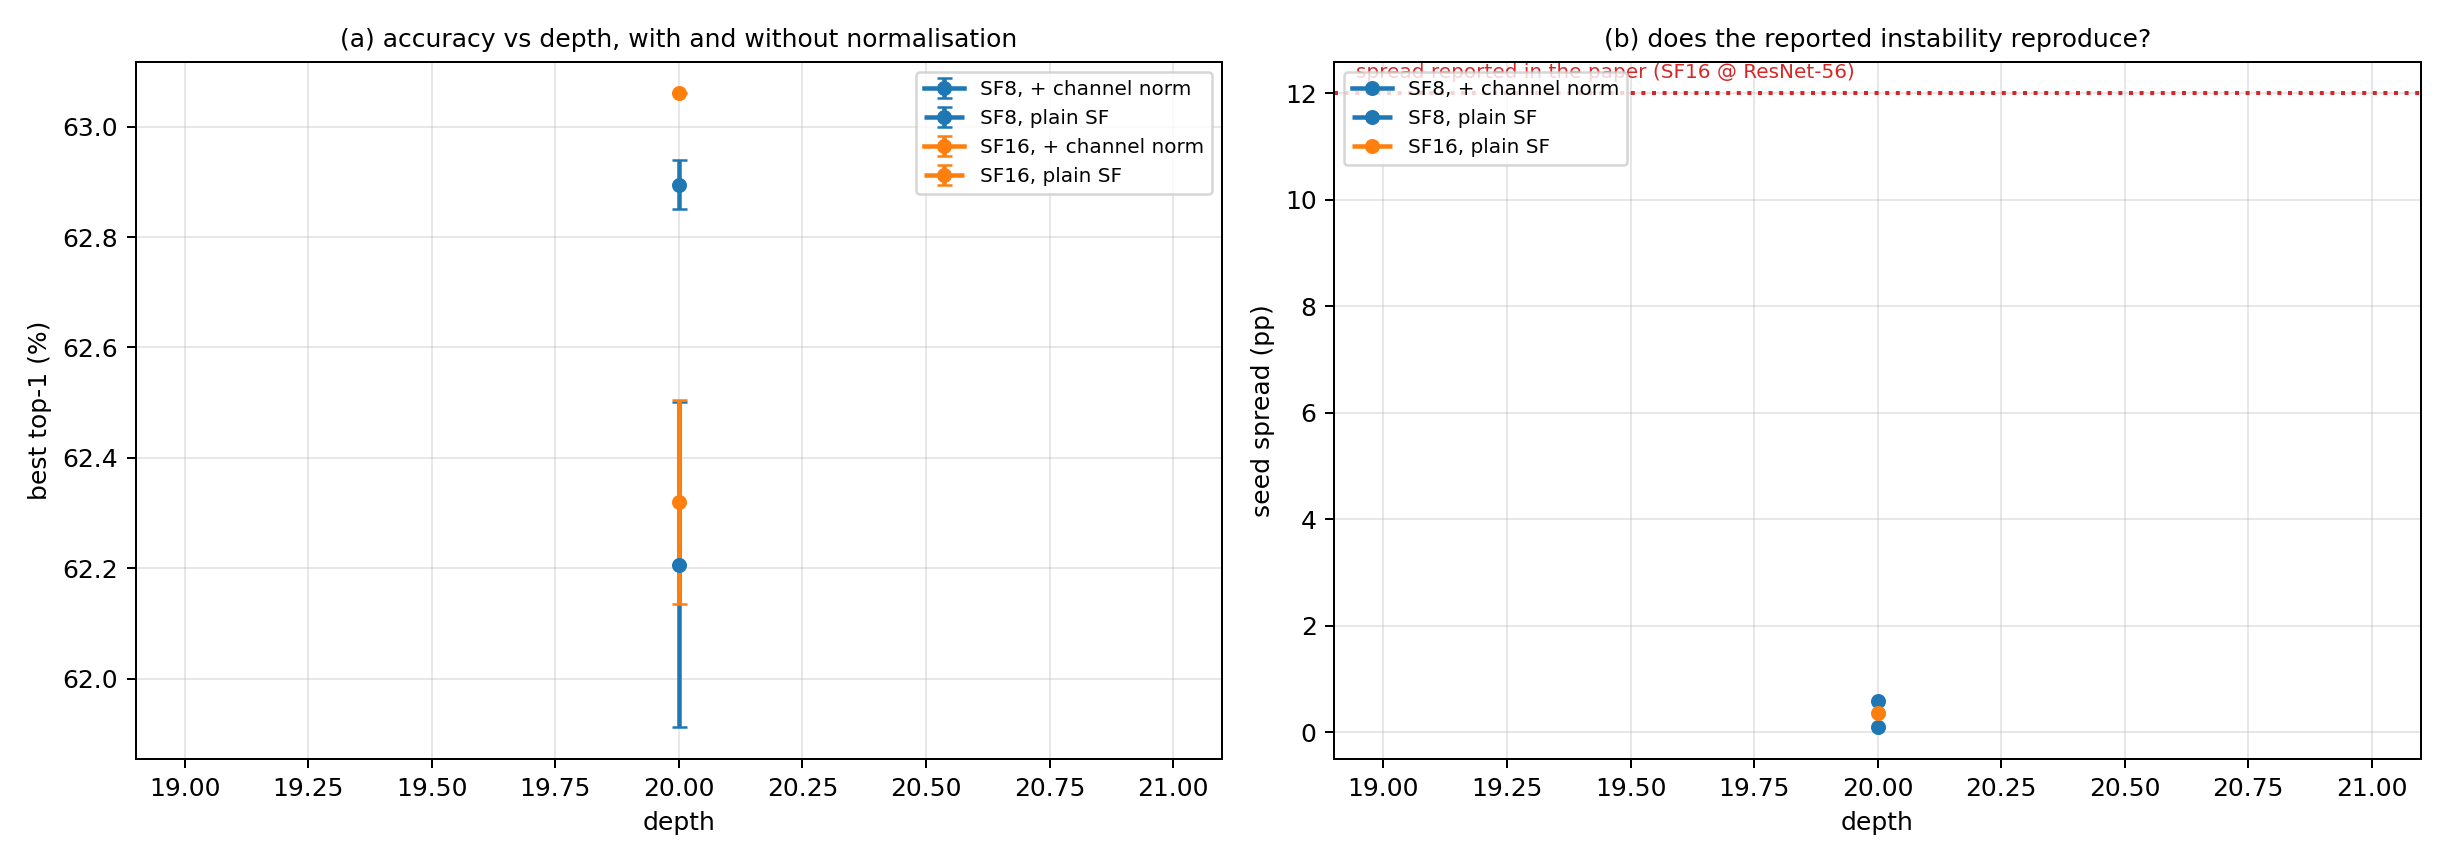
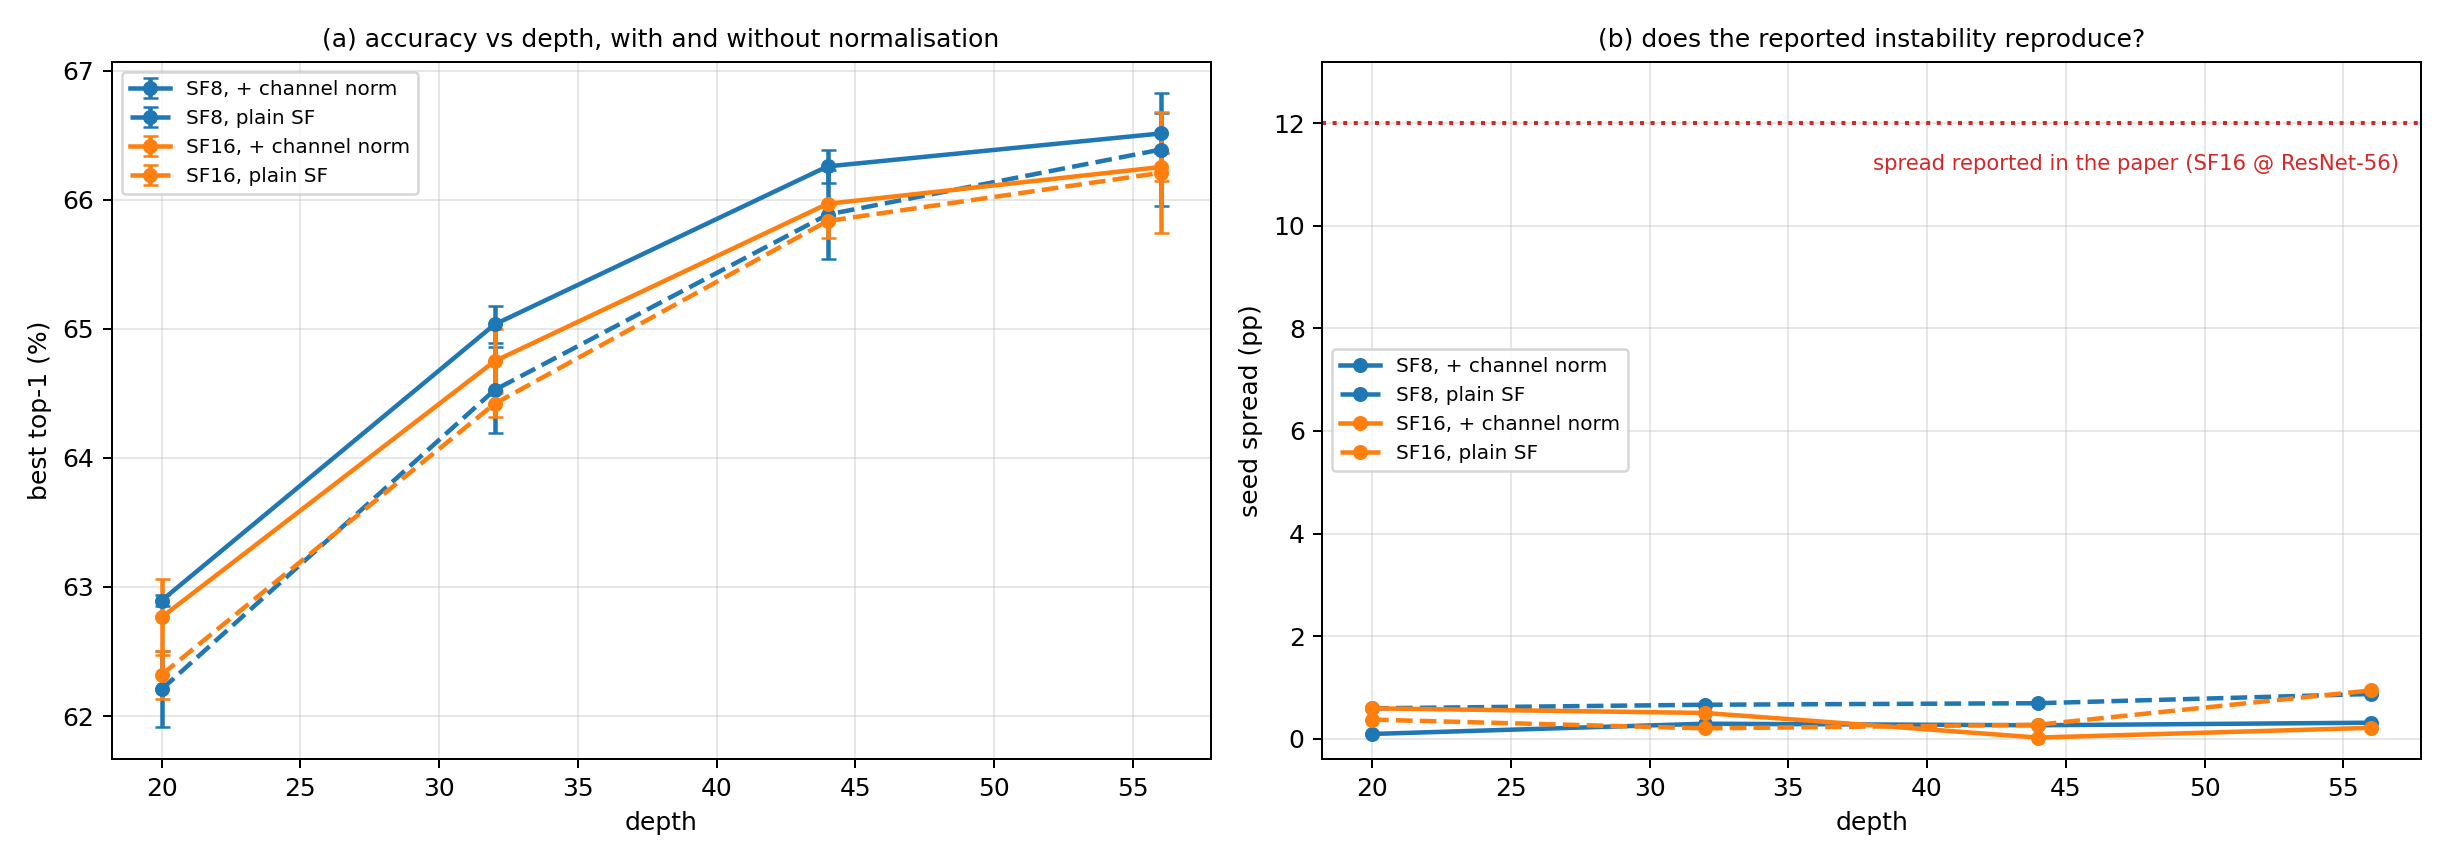
exp4 and exp7 complete the study: depth, and a number that does not reproduce
exp4 varies the axis tier C never touched. Under channel normalisation the
shape of the precision curve is identical at every depth: a step from SF2 to
SF3, then flat. No knee moves. What depth changes is the size of the penalty,
which shrinks as the network deepens:

  SF2 vs SF16   4.23 -> 3.08 -> 2.09 -> 1.92 pp   over ResNet-20/32/44/56
  SF3 vs SF16   0.74 -> 0.81 -> 0.53 -> 0.13 pp

That is what 5.2 predicts. Depth adds layers without changing any layer's
fan_in, and under normalisation the dead fraction depends only on precision, so
there is no mechanism for depth to move the critical precision. Width and depth
are not interchangeable here: widening raises the precision a network needs,
deepening makes the precision it has go further.

exp7 reruns those depths in the plain condition, three seeds, at the two
precisions the paper's largest instability was reported at. The 12.0-point seed
spread for SF16 on ResNet-56 measures 0.94 points, with the three seeds at
65.60, 66.49 and 66.54. No cell in 72 runs exceeds 1.08. This says the
instability is not a property the format forces; it does not say what produced
the original number, since the recipe here is not the paper's, and the section
says so.

Two corrections while finishing:

The exp4 cell that looked skipped had died at startup. The CIFAR guard checked
isdir(cifar-100-python), but that directory appears the moment the tarball
starts extracting, so runs launched during the 22-minute download opened a
[…]

diff --git a/benchmarks/lab/exp1_act.py b/benchmarks/lab/exp1_act.py
@@ -109,8 +109,19 @@ def load_gpu(train):
     # concurrent streams that is a synchronised GPU-idle window at each config
     # start. Fetch once if missing, then never re-check.
     import os as _os
-    have = _os.path.isdir(_os.path.join(DATA, "cifar-100-python"))
-    ds = torchvision.datasets.CIFAR100(DATA, train=train, download=not have)
+    # The directory appears the moment the tarball starts extracting, so an
+    # isdir() check lets a concurrently starting stream open a half-written
+    # dataset and die with "Dataset not found or corrupted". Look for the
+    # extracted files instead, and if the check still loses the race, wait for
+    # the download that is already in flight rather than starting a second one.
+    base = _os.path.join(DATA, "cifar-100-python")
+    have = all(_os.path.isfile(_os.path.join(base, f))
+               for f in ("train", "test", "meta"))
+    try:
+        ds = torchvision.datasets.CIFAR100(DATA, train=train, download=not have)
+    except RuntimeError:
+        time.sleep(90)
+        ds = torchvision.datasets.CIFAR100(DATA, train=train, download=True)
     x = torch.from_numpy(np.asarray(ds.data)).permute(0, 3, 1, 2).contiguous()
     return x.cuda(), torch.tensor(ds.targets, dtype=torch.long).cuda()
 

diff --git a/benchmarks/make_lab_figures.py b/benchmarks/make_lab_figures.py
@@ -345,11 +345,14 @@ def fig_plain(rows4, rows7, out):
             ax[1].plot(xs, [np.ptp(g[(d, b)]) for d in xs], marker="o", ms=5,
                        lw=1.8, ls=ls, color=C[i % len(C)], label=f"SF{b}, {lab}")
     ax[1].axhline(12.0, color="#d62728", lw=1.6, ls=":")
-    ax[1].text(0.02, 12.3, "spread reported in the paper (SF16 @ ResNet-56)",
-               fontsize=8, color="#d62728", transform=ax[1].get_yaxis_transform())
+    ax[1].text(0.98, 11.4, "spread reported in the paper (SF16 @ ResNet-56)",
+               fontsize=8.5, color="#d62728", ha="right", va="top",
+               transform=ax[1].get_yaxis_transform())
+    ax[1].set_ylim(-0.4, 13.2)
     ax[1].set_xlabel("depth"); ax[1].set_ylabel("seed spread (pp)")
     ax[1].set_title("(b) does the reported instability reproduce?", fontsize=10)
-    ax[1].legend(fontsize=8, loc="upper left"); ax[1].grid(alpha=0.3)
+    ax[1].legend_ = None
+    ax[1].legend(fontsize=8, loc="center left"); ax[1].grid(alpha=0.3)
 
     fig.tight_layout(); p = os.path.join(out, "lab_exp7_plain_depth.png")
     fig.savefig(p, dpi=180); plt.close(fig); return p

diff --git a/SCALING_LAWS.md b/SCALING_LAWS.md
@@ -1,7 +1,8 @@
 # SuperFloat precision scaling study
 
 How far SuperFloat can be pushed, measured rather than argued, across four
-experiment tiers and 509 runs.
+experiment tiers and seven follow-ups. 866 runs are archived under
+`benchmarks/results`, and every figure in this document regenerates from them.
 
 | tier | question | substrate | runs |
 | --- | --- | --- | --- |
@@ -9,6 +10,19 @@ experiment tiers and 509 runs.
 | B | how does PTQ cost scale with size *and* data? | Pythia 70M-12B, incl. intermediate checkpoints | 172 |
 | C | where does a network stop training, and why? | ResNet-20, width x0.25-x4, CIFAR-100 | 258 |
 | D | can the tier C fix be carried to transformers? | GPT 4.7M / 10.6M, three block designs | 44 |
+
+Seven follow-ups then ask where the precision that the tiers did not explain
+actually goes (section 5):
+
+| # | question | substrate | runs |
+| --- | --- | --- | --- |
+| 1 | how do weight and activation precision trade off? | ResNet-20, CIFAR-100 | 42 |
+| 2 | how does PTQ damage move with training tokens? | Pythia 160M-1.4B, 7 checkpoints | 168 |
+| 3 | does the penalty change with tokens-per-parameter? | GPT 4.7M, scale absorption | 20 |
+| 4 | does depth move the critical precision? | ResNet-20 to 56, CIFAR-100 | 48 |
+| 5 | where do dead weights sit, layer by layer? | ResNet-20 at init | 4 |
+| 6 | does usable step size track grid resolution? | ResNet-20, 10 learning rates | 60 |
+| 7 | does the paper's ResNet-56 instability reproduce? | ResNet-20 to 56, plain SF | 24 |
 
 Everything below is weights-only quantization with an FP32/FP16 head, and every
 penalty is measured against a control trained in the **same** condition. That
@@ -37,6 +51,27 @@ that never enters the inference arithmetic, and the floor drops by 2-4 bits.
 Both fixes keep the matmul holding exact SF grid values. The scale lives in the
 normalisation layer, which on Atreides sits outside the systolic array, so
 registers and the MAC array still compute only in SF range.
+
+Four further results from the follow-ups, each measured against a control in
+the same condition:
+
+- **The two operands are not symmetric.** Weights saturate at SF3-SF4;
+  activations need SF6, and below that the weight precision stops mattering.
+  The activation scale folds into the preceding norm, so both operands still
+  reach the array as exact SF values. A datapath that gives both operands the
+  same width is misallocating. (5.1)
+- **Precision and learning rate are independent.** Nothing diverged in 60
+  cells across a 640x range of step size, and the optimum is 4e-3 from SF4 to
+  SF16 alike. An FP32 recipe transfers without a learning-rate search. (5.3)
+- **PTQ damage is U-shaped in training tokens**, not monotone: both ends of a
+  run are fragile and the middle is not. Over-training a 160M model to 300B
+  tokens costs 2.5 bits of deployable precision. (3.3, 5.4)
+- **Depth does not move the critical precision**, it lowers the penalty. Width
+  raises the requirement; depth makes the precision you have go further. (5.5)
+
+One prior number does not survive. The paper's 12.0-point seed spread for SF16
+on ResNet-56 measures 0.94 points here across three seeds in the same plain
+condition, and no cell in 72 runs exceeds 1.08. (5.6)
 
 ---
 
@@ -342,6 +377,14 @@ The ordering within `ln` at 11m inverts, and three seeds show it is not noise:
 Fewer bits is consistently better, in every seed, with a SF2-to-SF4 gap of
 0.079 nats against a worst-case spread of 0.047.
 
+**These three rows are the one result here that does not regenerate from the
+archive.** The seed replicates were run on ephemeral capacity and their records
+were never written back, so `scaling_d.jsonl` holds the 36-run base grid and
+not the six extra seeds. The numbers above are as originally reported; they are
+simply no longer backed by retained data, and should be treated as weaker than
+everything else in this document until re-run. Section 5.4 does not repair
+this, since it runs at 5M where no inversion exists.
+
 Read this narrowly. All three remain *above* their FP32 control, so this is
 not ternary beating full precision; it is that among quantized options under
 scale absorption, the coarsest grid lands closest to FP32. The natural
@@ -534,6 +577,76 @@ the seed spread reported elsewhere, so it is recorded rather than claimed.
 
 ![regularisation](benchmarks/figures/lab_exp3_regularisation.png)
 
+### 5.5 Depth does not move the critical precision; it lowers the penalty
+
+Tier C varied width and found the precision requirement rising with it. Depth
+was never varied. Under channel normalisation, six precisions crossed with four
+ResNet depths, two seeds each, mean best top-1:
+
+| depth | SF2 | SF3 | SF4 | SF6 | SF8 | SF16 |
+| --- | --- | --- | --- | --- | --- | --- |
+| 20 | 58.54 | 62.03 | 62.58 | 62.96 | 62.89 | 62.77 |
+| 32 | 61.67 | 63.94 | 64.54 | 64.59 | 65.03 | 64.75 |
+| 44 | 63.88 | 65.44 | 66.29 | 65.98 | 66.26 | 65.97 |
+| 56 | 64.33 | 66.12 | 66.33 | 66.48 | 66.52 | 66.25 |
+
+The shape of every row is the same: a step from SF2 to SF3, then flat. No knee
+moves. Where depth does show up is in the size of the penalty, which shrinks
+steadily as the network deepens:
+
+| penalty vs SF16 | ResNet-20 | ResNet-32 | ResNet-44 | ResNet-56 |
+| --- | --- | --- | --- | --- |
+| SF2 | 4.23 | 3.08 | 2.09 | **1.92** |
+| SF3 | 0.74 | 0.81 | 0.53 | **0.13** |
+
+This is what 5.2 predicts. Depth adds layers but does not change any layer's
+fan_in, and under normalisation the dead fraction depends only on precision, so
+there is no mechanism by which depth should move the critical precision. The
+shrinking penalty is the ordinary capacity effect: a deeper network has more
+layers to absorb the same per-layer quantization noise.
+
+Width and depth are therefore not interchangeable for this purpose. Widening a
+network raises the precision it needs; deepening one does not, and makes the
+precision it has go further.
+
+![depth](benchmarks/figures/lab_exp4_depth.png)
+
+### 5.6 The reported ResNet-56 instability does not reproduce
+
+The paper reports a seed spread of 12.0 points for SF16 on ResNet-56, which is
+the single largest instability in it. Everything in 5.5 runs with channel
+normalisation, which did not exist when that number was measured, so 5.5 cannot
+speak to it. exp7 reruns the same depths in the plain condition, no per-channel
+scale, at the two precisions the spread was reported at, three seeds each:
+
+| depth | SF8 | SF16 |
+| --- | --- | --- |
+| 20 | 62.21 [0.59] | 62.32 [0.37] |
+| 32 | 64.53 [0.66] | 64.42 [0.20] |
+| 44 | 65.89 [0.69] | 65.84 [0.27] |
+| 56 | 66.39 [0.87] | 66.25 [0.94] |
+
+Brackets are the seed spread. The largest anywhere in the plain condition is
+**0.94 points**, at exactly the cell the 12.0 was reported for, whose three
+seeds land at 65.60, 66.49 and 66.54. That is thirteen times smaller than the
+reported figure. Across all 72 runs in 5.5 and 5.6 together, no cell exceeds
+1.08 points.
+
+SF8 and SF16 are also indistinguishable at every depth, which is expected:
+normalisation matters at SF2 to SF4, where the grid is coarse enough for scale
+placement to decide whether weights survive at all, and by SF8 the grid is fine
+enough that it does not matter. That is why the plain and normalised numbers
+agree here while diverging by 60 points at SF2 in tier C.
+
+**What this does and does not settle.** It says the instability is not a
+property of SF16 at depth 56 that any correct implementation must reproduce.
+It does not identify what produced the original number, because this uses the
+present training recipe rather than the paper's, so recipe and scale placement
+are not separated. The honest reading is that the 12.0 should not be relied on
+as a property of the format.
+
+![plain depth](benchmarks/figures/lab_exp7_plain_depth.png)
+
 ## 6. What is not established
 
 - **The width exponent.** +1.12 bits over 16x width is solid; a single exponent
@@ -545,7 +658,9 @@ the seed spread reported elsewhere, so it is recorded rather than claimed.
 - **The SF5 non-monotonicity in N is unexplained.** It replicates (see 3.1) but
   no mechanism is offered.
 - **The inverted precision ordering under scale absorption** (4.1) is measured
-  at one architecture and one size.
+  at one architecture and one size, and its three-seed evidence is no longer
+  backed by retained records (see 4.1). Re-running it at 11M is the single
+  highest-value open item in this study.
 - **PTQ under scale absorption** was never run. Given SF4 PTQ destroys every
   model tested, it is the obvious next experiment.
 - **Activation quantization** is out of scope for the four tiers; 5.1 measures
@@ -556,6 +671,16 @@ the seed spread reported elsewhere, so it is recorded rather than claimed.
   specific: it rests on activations being one-sided and heavy-tailed after
   ReLU, and a transformer's post-GELU and residual-stream activations are
   differently shaped. It is untested there.
+- **The ResNet-56 non-reproduction (5.6) does not explain the original
+  number.** It uses this study's training recipe, not the paper's, so recipe
+  and scale placement are not separated. It shows the instability is not a
+  property the format forces, not what produced the 12.0.
+- **exp7 covers only SF8 and SF16**, the two precisions the spread was
+  reported at. The plain-vs-normalised comparison at those precisions is
+  therefore uninformative about normalisation, which matters at SF2-SF4.
+- **The depth sweep (5.5) is two seeds per cell** against exp7's three, and one
+  cell there shows a 1.08-point spread, so differences below about a point
+  between adjacent precisions are not resolved.
 - **The learning-rate result is measured on 12-epoch runs.** Short runs are
   enough to expose divergence, which is what was being looked for, but a
   configuration that survives 12 epochs at 6e-2 could still fail over 60. The

diff --git a/benchmarks/lab/README.md b/benchmarks/lab/README.md
@@ -14,11 +14,11 @@ silent bug visible, and several were caught that way.
 | --- | --- | --- | --- |
 | 1 | `exp1_act.py` | how do weight and activation precision trade off? | asymmetric: weights need 3-4 bits, activations 6 |
 | 2 | `exp2_dn.py` | how does PTQ damage move with training tokens? | U-shaped; both ends of a run are fragile |
-| 3 | `exp3_reg.py` | is low precision acting as a regulariser? | see 5.5 |
-| 4 | `exp1_act.py --depth` | does depth move the critical precision? | no |
+| 3 | `exp3_reg.py` | how does the penalty move with tokens-per-parameter? | U-shaped; decay is not the whole story |
+| 4 | `exp1_act.py --depth` | does depth move the critical precision? | no; it lowers the penalty |
 | 5 | `exp5_alloc.py` | where do dead weights sit, layer by layer? | in wide layers, exactly as fan_in predicts |
 | 6 | `exp6_lr.py` | does usable step size track grid resolution? | no, not over a 640x range |
-| 7 | `exp1_act.py --no-chan-norm --depth` | does the depth result survive without normalisation? | see 5.4 |
+| 7 | `exp1_act.py --no-chan-norm --depth` | does the paper's ResNet-56 instability reproduce? | no: 0.94 pp against 12.0 |
 
 ## Running
 
